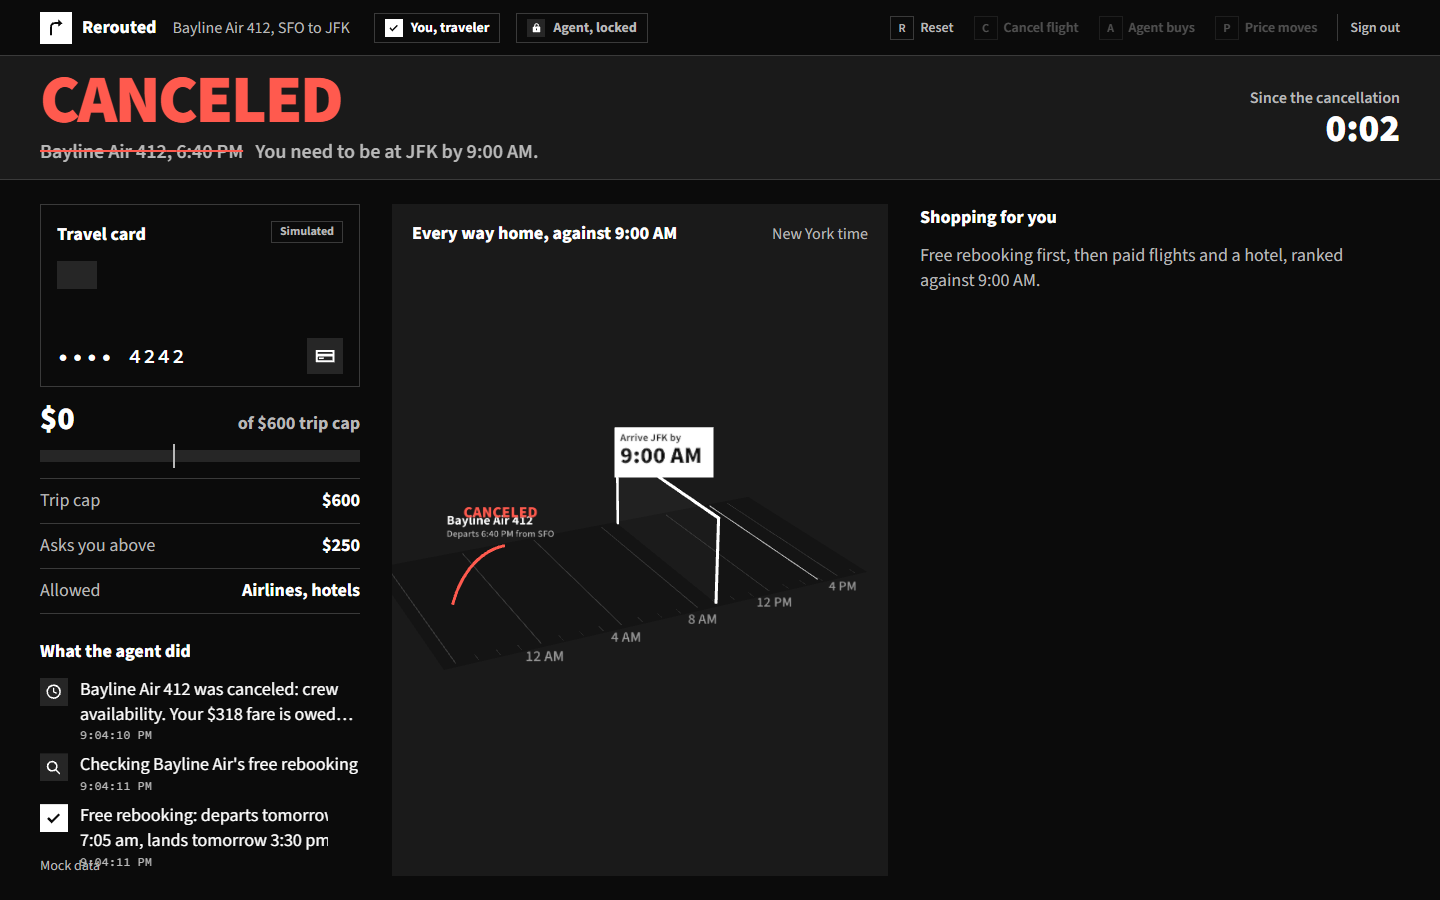
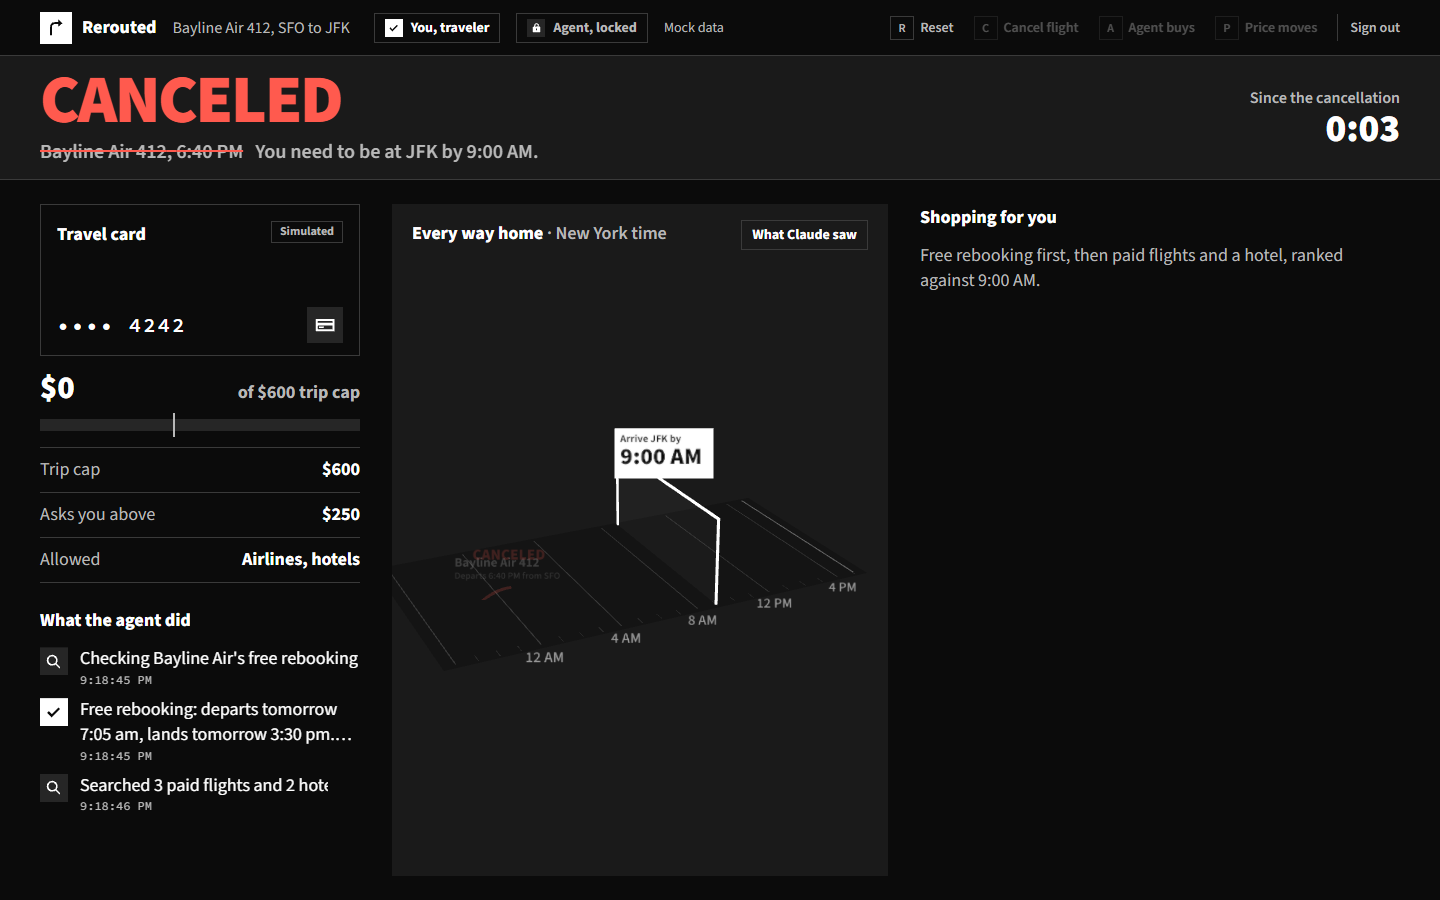
Starter-pack gaps and step 3: Claude-labelled reasons and flags, What Claude saw panel mirroring the agent's real input, Why #1 line from the ranking and card rules, consent line under Approve, commerce line on the receipt, pinned Claude errors, fixed step slots; landing: who it helps and what comes

diff --git a/components/rerouted/Focus.tsx b/components/rerouted/Focus.tsx
@@ -19,6 +19,13 @@ export interface Void {
 /** The listing text the seeded offers were built from. Shown as untrusted, quoted text, never as instructions. */
 const listingOf = new Map(fixture.offers.map((o) => [o.offerId, o.listingText]));
 
+/** Why an option sits where it does: the ranking rule first, then the card rule that asks you. */
+function whyRank(o: Offer, delta: ReturnType<typeof deadlineDelta> | null): string {
+  const ask = parseRules(o.rulesJson).find((r) => r.tier === "ASK" && r.id !== "above_auto_ceiling");
+  const place = o.kind === "hotel" ? "Hotels rank after flights" : delta?.before ? "Lands before your deadline" : o.priceCents === 0 ? "Costs nothing, but misses your deadline" : "Misses your deadline";
+  return ask ? `${place}. ${ask.reason}` : `${place}.`;
+}
+
 function landing(o: Offer) {
   if (o.kind === "hotel") return null;
   const dep = clockHours(o.departs);
@@ -108,8 +115,17 @@ export function OptionCard({
         </p>
       </div>
 
-      {lead && offer.claudeReason ? <p className="mt-2 line-clamp-2 text-lg leading-snug" title={offer.claudeReason}>{offer.claudeReason}</p> : null}
-      {!lead && offer.claudeReason ? <p className="mt-1 line-clamp-1 text-base text-soft" title={offer.claudeReason}>{offer.claudeReason}</p> : null}
+      {lead ? (
+        <p className="mt-2 truncate text-base" title={whyRank(offer, delta)}>
+          <span className="font-bold">Why #1:</span> {whyRank(offer, delta)}
+        </p>
+      ) : null}
+      {offer.claudeReason ? (
+        <p className={`mt-1.5 flex gap-2 ${lead ? "text-lg leading-snug" : "text-base text-soft"}`} title={offer.claudeReason}>
+          <span className="mt-0.5 shrink-0 border border-rule px-1.5 text-xs leading-5 font-bold text-soft">Claude</span>
+          <span className={lead ? "line-clamp-2" : "line-clamp-1"}>{offer.claudeReason}</span>
+        </p>
+      ) : null}
 
       {stamp?.by === "agent" ? (
         <p role="alert" className="stamp mt-3 flex items-center gap-3 border-2 border-alert p-2.5 text-lg leading-snug font-bold text-alert">
@@ -119,12 +135,9 @@ export function OptionCard({
       ) : null}
 
       {voided && offer.status !== "booked" ? (
-        <div role="alert" className="stamp mt-3 border-2 border-alert p-3">
-          <p className="text-lg leading-snug font-bold">
-            You approved {money(voided.priceCents)}. The price is now {money(offer.priceCents)}. That approval is void.
-          </p>
-          {voided.text !== "quote" ? <p className="mt-1 text-sm text-soft">The database said: {voided.text}</p> : null}
-        </div>
+        <p role="alert" className="stamp mt-3 border-2 border-alert p-3 text-lg leading-snug font-bold" title={voided.text !== "quote" ? `The database said: ${voided.text}` : undefined}>
+          You approved {money(voided.priceCents)}. The price is now {money(offer.priceCents)}. That approval is void.
+        </p>
       ) : stamp?.by === "traveler" ? (
         <p role="alert" className="stamp mt-3 border-2 border-alert p-2.5 text-lg font-bold text-alert">
           {stamp.text}
@@ -140,7 +153,9 @@ export function OptionCard({
         >
           {busy ? "Checking your card" : `Approve ${offer.priceCents === 0 ? "free rebooking" : price}`}
         </button>
-      ) : (
+      ) : null}
+      {lead ? <p className="mt-1.5 text-center text-sm text-soft">Charges card •••• 4242 exactly {price}. Nothing else is bought.</p> : null}
+      {lead ? null : (
         <button
           type="button"
           disabled={busy}
@@ -174,7 +189,7 @@ export function SetAsideShelf({ offers }: { offers: Offer[] }) {
               </p>
               {o.flagged && listing ? (
                 <div className="mt-1 border-2 border-alert p-2.5">
-                  <p className="text-sm font-bold text-alert">Its listing tried to give the agent orders</p>
+                  <p className="text-sm font-bold text-alert">Claude caught it: the listing tried to give the agent orders</p>
                   <blockquote className="mt-1 text-base leading-snug text-white">&ldquo;{listing}&rdquo;</blockquote>
                 </div>
               ) : (
@@ -189,11 +204,15 @@ export function SetAsideShelf({ offers }: { offers: Offer[] }) {
 }
 
 /** The ending: what was bought, by whom, with the proof and the refund. */
-export function ReceiptPanel({ receipts, trip, voids }: { receipts: Receipt[]; trip: Trip; voids: Record<string, Void> }) {
+export function ReceiptPanel({ receipts, trip, voids, offers }: { receipts: Receipt[]; trip: Trip; voids: Record<string, Void>; offers: Offer[] }) {
   const r = receipts.at(-1);
   if (!r) return null;
   const chain = verifyReceipts(receipts);
   const v = voids[r.offerId];
+  const shown = offers.filter((o) => o.rank > 0).length;
+  const chosen = offers.find((o) => o.offerId === r.offerId)?.rank;
+  const minutes = trip.canceledAt && trip.bookedAt ? Math.max(0, Math.round((Date.parse(trip.bookedAt) - Date.parse(trip.canceledAt)) / 1000)) : null;
+  const took = minutes === null ? null : `${Math.floor(minutes / 60)}:${String(minutes % 60).padStart(2, "0")}`;
   return (
     <section aria-labelledby="receipt-h" className="print flex flex-col gap-3 bg-white p-5 text-ink">
       <div className="flex items-baseline justify-between">
@@ -212,6 +231,9 @@ export function ReceiptPanel({ receipts, trip, voids }: { receipts: Receipt[]; t
         </div>
         <p className="text-[2.4rem] leading-none font-black tabular-nums">{money(r.amountCents)}</p>
       </div>
+      <p className="text-base font-bold">
+        {shown} options shown, #{chosen ?? 1} chosen{took ? `, ${took} from cancel to booked` : ""}. Free rebooking checked first.
+      </p>
       <dl className="grid grid-cols-[auto_1fr] gap-x-4 gap-y-1 text-base">
         <dt className="text-ink/70">Fingerprint</dt>
         <dd className="font-mono text-sm" title={r.hash}>{r.hash.slice(0, 16)}</dd>

diff --git a/components/rerouted/ClaudeSaw.tsx b/components/rerouted/ClaudeSaw.tsx
@@ -1,0 +1,62 @@
+"use client";
+
+import fixture from "@/data/fixtures/demo.json";
+import type { Mandate, Trip } from "./types";
+
+/**
+ * Exactly what the agent sends Claude, mirrored from lib/agent/run.ts buildClaudeInput: the route,
+ * the deadline, the card rules summary and each offer's public fields, with listing text marked as
+ * untrusted. Nothing about the traveler is sent.
+ */
+export function ClaudeSaw({ trip, mandate, onClose }: { trip: Trip | null; mandate: Mandate | null; onClose: () => void }) {
+  return (
+    <div role="dialog" aria-modal="false" aria-labelledby="saw-h" className="absolute inset-0 z-10 flex flex-col bg-panel/97 p-5">
+      <div className="flex items-start justify-between gap-4">
+        <div>
+          <h3 id="saw-h" className="text-xl font-extrabold">
+            What Claude saw
+          </h3>
+          <p className="text-base text-soft">One call per cancellation. Claude explains and flags; the card&apos;s rules decide.</p>
+        </div>
+        <button type="button" onClick={onClose} className="border border-rule px-3 py-1 text-base font-bold hover:bg-panel-2">
+          Close
+        </button>
+      </div>
+
+      <div className="mt-4 grid min-h-0 flex-1 gap-5 overflow-y-auto md:grid-cols-[minmax(0,1fr)_220px]">
+        <div className="min-w-0 space-y-2 text-base">
+          <p>
+            <span className="text-soft">Trip:</span> {trip?.route}. {trip?.deadlineText}.
+          </p>
+          <p>
+            <span className="text-soft">Card rules:</span> {mandate?.summary}
+          </p>
+          <ul className="mt-2 divide-y divide-rule border-y border-rule">
+            {fixture.offers.map((o) => (
+              <li key={o.offerId} className="py-2">
+                <p className="font-bold">
+                  {o.title} <span className="font-semibold text-soft">· ${(o.priceCents / 100).toLocaleString("en-US")}</span>
+                </p>
+                <p className="mt-0.5 text-sm leading-snug text-soft">
+                  <span className="font-mono text-xs">untrusted listing:</span> {o.listingText}
+                </p>
+              </li>
+            ))}
+          </ul>
+        </div>
+        <div className="space-y-3">
+          <p className="text-base font-extrabold">Never sent</p>
+          <ul className="space-y-1.5 text-base">
+            {["Your name", "Your email", "Booking reference", "Loyalty number", "Card number or token"].map((x) => (
+              <li key={x} className="flex items-center gap-2">
+                <span className="h-0.5 w-3 bg-alert" aria-hidden="true" />
+                {x}
+              </li>
+            ))}
+          </ul>
+          <p className="text-sm leading-snug text-soft">Listing text is third-party data. Claude is told never to follow it, and to flag a listing that tries.</p>
+        </div>
+      </div>
+    </div>
+  );
+}

diff --git a/components/rerouted/RerouteApp.tsx b/components/rerouted/RerouteApp.tsx
@@ -3,6 +3,7 @@
 import { useCallback, useEffect, useState, type ReactNode } from "react";
 import { CorridorCanvas } from "@/components/three/CorridorCanvas";
 import { CardObject } from "./CardObject";
+import { ClaudeSaw } from "./ClaudeSaw";
 import { CalmPanel, ClosedOptions, OptionCard, ReceiptPanel, SetAsideShelf, ShoppingPanel, type Stamp } from "./Focus";
 import { Pictogram } from "./Pictogram";
 import { SignBand } from "./SignBand";
@@ -184,6 +185,7 @@ function RerouteView({ source, account }: { source: RerouteSource; account?: Rea
     trip?.status === "scheduled" ? "cancel" : top && !flightBooked && !agentTried ? "agent" : top && !flightBooked && top.priceCents !== NEW_PRICE ? "price" : flightBooked ? "reset" : null;
 
   const shopping = trip?.status === "canceled" && ranked.length === 0;
+  const [saw, setSaw] = useState(false);
 
   return (
     <div className="flex min-h-dvh flex-col bg-ink lg:h-dvh lg:overflow-hidden">
@@ -204,13 +206,16 @@ function RerouteView({ source, account }: { source: RerouteSource; account?: Rea
         <div className="order-3 flex min-h-0 min-w-0 flex-col gap-4 lg:order-none">
         <section aria-labelledby="corridor" className="board flex min-h-[300px] min-w-0 flex-1 flex-col">
           <div className="flex items-baseline justify-between gap-4 px-5 pt-4">
-            <h2 id="corridor" className="text-lg font-extrabold">
-              Every way home, against 9:00 AM
+            <h2 id="corridor" className="text-lg font-extrabold whitespace-nowrap">
+              Every way home <span className="font-semibold text-soft">· New York time</span>
             </h2>
-            <p className="text-base text-soft">New York time</p>
+            <button type="button" onClick={() => setSaw((v) => !v)} aria-expanded={saw} className="border border-rule px-2.5 py-1 text-sm font-bold whitespace-nowrap hover:bg-panel-2">
+              What Claude saw
+            </button>
           </div>
           <div className="relative min-h-0 flex-1">
             <CorridorCanvas trip={trip} offers={offers} refusedPulse={pulse} />
+            {saw ? <ClaudeSaw trip={trip} mandate={mandate} onClose={() => setSaw(false)} /> : null}
           </div>
         </section>
         {!flightBooked ? <SetAsideShelf offers={aside} /> : null}
@@ -219,7 +224,7 @@ function RerouteView({ source, account }: { source: RerouteSource; account?: Rea
         <div className="order-1 flex min-h-0 flex-col gap-3 lg:order-none lg:overflow-y-auto">
           {flightBooked && trip ? (
             <>
-              <ReceiptPanel receipts={receipts} trip={trip} voids={shownVoids} />
+              <ReceiptPanel receipts={receipts} trip={trip} voids={shownVoids} offers={offers} />
               <ClosedOptions offers={ranked.filter((o) => o.status !== "booked")} />
             </>
           ) : ranked.length ? (

diff --git a/components/landing/Landing.tsx b/components/landing/Landing.tsx
@@ -215,6 +215,38 @@ export function Landing() {
         })}
       </section>
 
+      <section className="mx-auto grid max-w-[1440px] gap-12 px-4 pb-24 md:px-8 lg:grid-cols-2 lg:gap-20">
+        <Reveal from="left">
+          <h2 className="text-[2.4rem] leading-tight font-black tracking-[-0.03em]">Who it helps</h2>
+          <dl className="mt-6 divide-y divide-rule border-y border-rule text-lg">
+            {[
+              ["Travelers", "A way home in minutes, inside limits they set, with nothing bought until they tap."],
+              ["Card issuers", "Spending rules that hold even when an AI agent is the one shopping."],
+              ["Airlines and hotels", "A sale the cardholder approved at an exact price, with a receipt behind it."],
+            ].map(([who, what]) => (
+              <div key={who} className="grid gap-1 py-4 md:grid-cols-[11rem_1fr] md:gap-6">
+                <dt className="font-extrabold">{who}</dt>
+                <dd className="text-soft">{what}</dd>
+              </div>
+            ))}
+          </dl>
+        </Reveal>
+        <Reveal from="right">
+          <h2 className="text-[2.4rem] leading-tight font-black tracking-[-0.03em]">What comes next</h2>
+          <ul className="mt-6 divide-y divide-rule border-y border-rule text-lg">
+            {[
+              "Live fares and hotel rates from public travel APIs instead of a replayed demo.",
+              "Card network agent controls in place of the simulated token.",
+              "More disruptions: delays, missed connections, a traveler group on one card.",
+            ].map((line) => (
+              <li key={line} className="py-4 text-soft">
+                {line}
+              </li>
+            ))}
+          </ul>
+        </Reveal>
+      </section>
+
       <section className="sign on-yellow">
         <Reveal from="left">
           <div className="mx-auto flex max-w-[1440px] flex-wrap items-center justify-between gap-6 px-4 py-14 md:px-8">

diff --git a/components/rerouted/StepsList.tsx b/components/rerouted/StepsList.tsx
@@ -19,16 +19,18 @@ const ROWS = 3;
  * rows never push the layout. Each kind has its own marker; refusals and errors read in red.
  */
 export function StepsList({ steps, idle }: { steps: AgentStep[]; idle: boolean }) {
-  const rows = steps.slice(-ROWS);
+  const errors = steps.filter((s) => s.kind === "error");
+  const rest = steps.filter((s) => s.kind !== "error").slice(-(ROWS - Math.min(errors.length, 1)));
+  const rows = [...errors.slice(-1), ...rest];
   return (
     <section aria-labelledby="steps-h" className="flex min-h-0 flex-1 flex-col">
       <h2 id="steps-h" className="mb-3 text-lg font-extrabold">
         What the agent did
       </h2>
       {idle && rows.length === 0 ? (
-        <p className="text-lg leading-snug text-soft">The agent is idle. It starts shopping the moment your flight is canceled.</p>
+        <p className="min-h-[204px] text-lg leading-snug text-soft">The agent is idle. It starts shopping the moment your flight is canceled.</p>
       ) : (
-        <ol className="flex flex-col gap-2.5" aria-live="polite">
+        <ol className="flex min-h-[204px] flex-col gap-2.5" aria-live="polite">
           {rows.map((s) => {
             const m = marker[s.kind];
             const red = s.kind === "refusal" || s.kind === "error";
